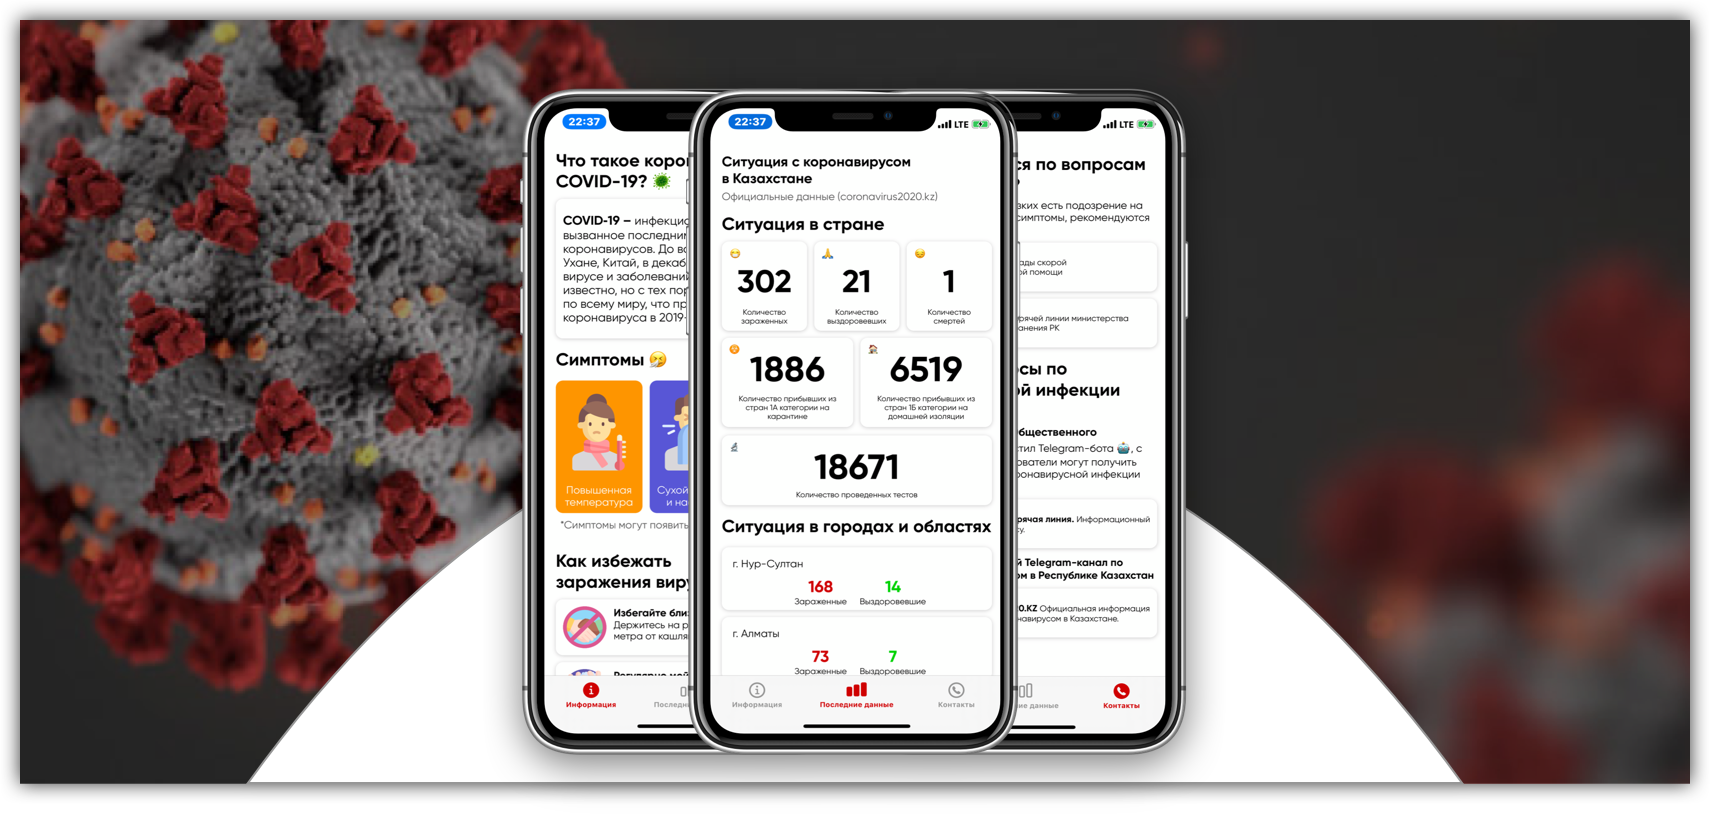
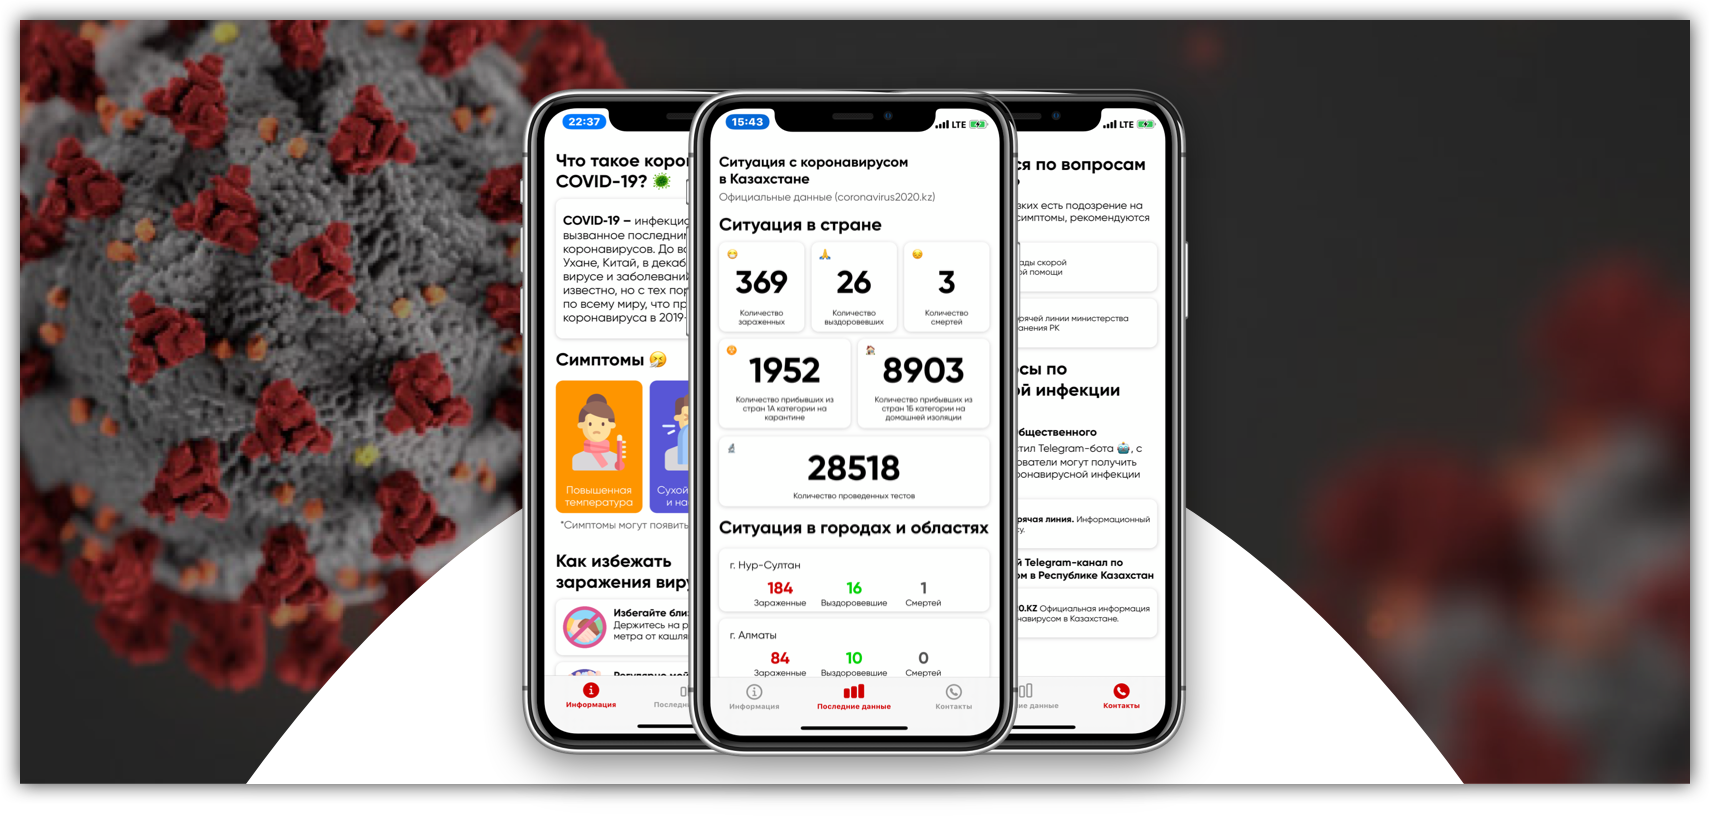
Добавлена информация о количестве смертей по городам/областям, изменены изображения для README.md

diff --git a/CovidKazakhstan/Classes/Utils/WebScraper.swift b/CovidKazakhstan/Classes/Utils/WebScraper.swift
@@ -15,11 +15,11 @@ final class WebScrapper {
     private let data : HTMLDocument
     
     private func getInfectedByCity() -> [String : Int] {
-        let infected = data.xpath("//div[@class=\"city_cov\"]")[0].text?.deleteAllSpaces()
+        let infected = (data.xpath("//div[@class=\"city_cov\"]")[0].text?.deleteAllSpaces())!
         
         var infectedDict : [String : Int] = [:]
         
-        for i in (infected?.components(separatedBy: .newlines))! {
+        for i in infected.components(separatedBy: .newlines) {
             if i.count > 0 {
                 let infectedAmount = Int(i.components(separatedBy: characterSet).joined())!
 
@@ -34,11 +34,11 @@ final class WebScrapper {
     }
     
     private func getRecoveredByCity() -> [String : Int] {
-        let recovered = data.xpath("//div[@class=\"city_cov\"]")[1].text?.deleteAllSpaces()
+        let recovered = (data.xpath("//div[@class=\"city_cov\"]")[1].text?.deleteAllSpaces())!
         
         var recoveredDict : [String : Int] = [:]
         
-        for i in (recovered?.components(separatedBy: .newlines))! {
+        for i in recovered.components(separatedBy: .newlines) {
             if i.count > 0 {
                 let recoveredAmount = Int(i.components(separatedBy: characterSet).joined())
                 
@@ -52,6 +52,25 @@ final class WebScrapper {
         return recoveredDict
     }
     
+    private func getDeathsByCity() -> [String : Int] {
+        let deaths = (data.xpath("//div[@class=\"deaths_bl\"]//child::div")[1].text?.deleteAllSpaces())!
+        
+        var deathsDict : [String : Int] = [:]
+        
+        for i in deaths.components(separatedBy: .newlines) {
+            if i.count > 0 {
+                let deathsAmount = Int(i.components(separatedBy: characterSet).joined())
+                
+                var deathsCity = i.components(separatedBy: .decimalDigits).joined()
+                deathsCity.removeLast()
+                
+                deathsDict[deathsCity] = deathsAmount
+            }
+        }
+        
+        return deathsDict
+    }
+    
     public func getTotalInfectedAmount() -> String {
         return (data.xpath("//span[@class=\"number_cov marg_med\"]")[0].text?.deleteAllSpaces())!
     }
@@ -62,24 +81,31 @@ final class WebScrapper {
     }
     
     public func getTotalDeathsAmount() -> String {
-        let downloadedData = (data.xpath("//div[@class=\"deaths_bl\"]")[0].text?.deleteAllSpaces())!
+        let downloadedData = (data.xpath("//div[@class=\"deaths_bl\"]//child::div")[0].text?.deleteAllSpaces())!
         return downloadedData.components(separatedBy: characterSet).joined()
     }
     
     public func getInfectedAndRecoveredAmountByCity() -> [(String, [Int])] {
         let infectedData = getInfectedByCity()
         let recoveredData = getRecoveredByCity()
+        let deathsData = getDeathsByCity()
         
         var output : [String : [Int]] = [:]
         
-        /// Мы проверяем количество выздоровевших из зараженных, поэтому идем циклом по словарю с данными зараженных городов
+        /// Мы проверяем количество выздоровевших и умерших из зараженных, поэтому идем циклом по словарю с данными зараженных городов
         for infectedCityData in infectedData {
+            let outputKey = infectedCityData.key.formatCityName()
+            
+            output[outputKey] = [infectedCityData.value, 0, 0]
+            
             if recoveredData.keys.contains(infectedCityData.key) {
-                output[infectedCityData.key.formatCityName()] = [infectedCityData.value, recoveredData[infectedCityData.key]!]
-            } else {
-                output[infectedCityData.key.formatCityName()] = [infectedCityData.value, 0]
+                output[outputKey]![1] = recoveredData[infectedCityData.key]!
+            }
+            if deathsData.keys.contains(infectedCityData.key) {
+                output[outputKey]![2] = deathsData[infectedCityData.key]!
             }
         }
+        
         return output.sorted(by: { $0.value[0] > $1.value[0] })
     }
     

diff --git a/CovidKazakhstan/Classes/ViewControllers/LastDataViewController.swift b/CovidKazakhstan/Classes/ViewControllers/LastDataViewController.swift
@@ -82,9 +82,11 @@ class LastDataViewController: UIViewController {
 
                     newCell.infectedCityLabel.text = cell.0
                     newCell.infectedAmount.text = String(cell.1[0])
-
+                    
                     newCell.recoveredAmount.text = String(cell.1[1])
-
+                    
+                    newCell.deathsAmount.text = String(cell.1[2])
+                    
                     self.infectedCitiesStackView.addArrangedSubview(newCell)
                 }
             }

diff --git a/CovidKazakhstan/UI/Cells/InfectedCityCell.swift b/CovidKazakhstan/UI/Cells/InfectedCityCell.swift
@@ -11,9 +11,12 @@ import UIKit
 class InfectedCityCell: UIView {
 
     @IBOutlet var infectedCityLabel: UILabel!
+    
     @IBOutlet var infectedAmount: UILabel!
     
     @IBOutlet var recoveredAmount: UILabel!
+    
+    @IBOutlet var deathsAmount: UILabel!
     
     override func awakeFromNib() {
         super.awakeFromNib()
